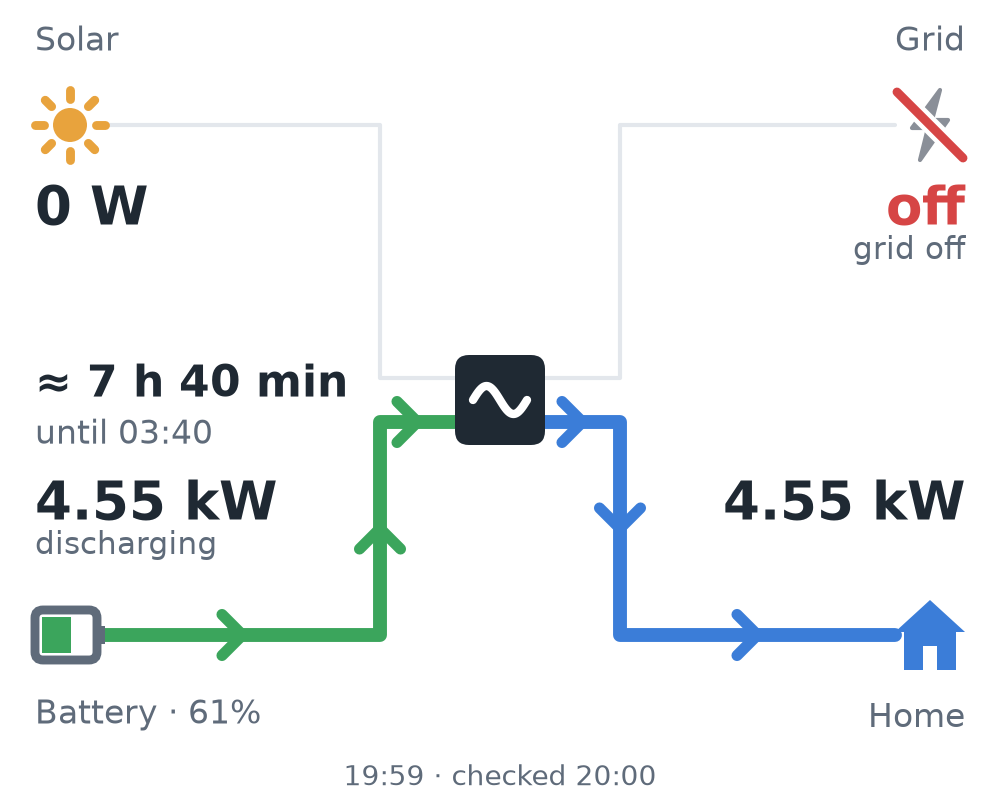
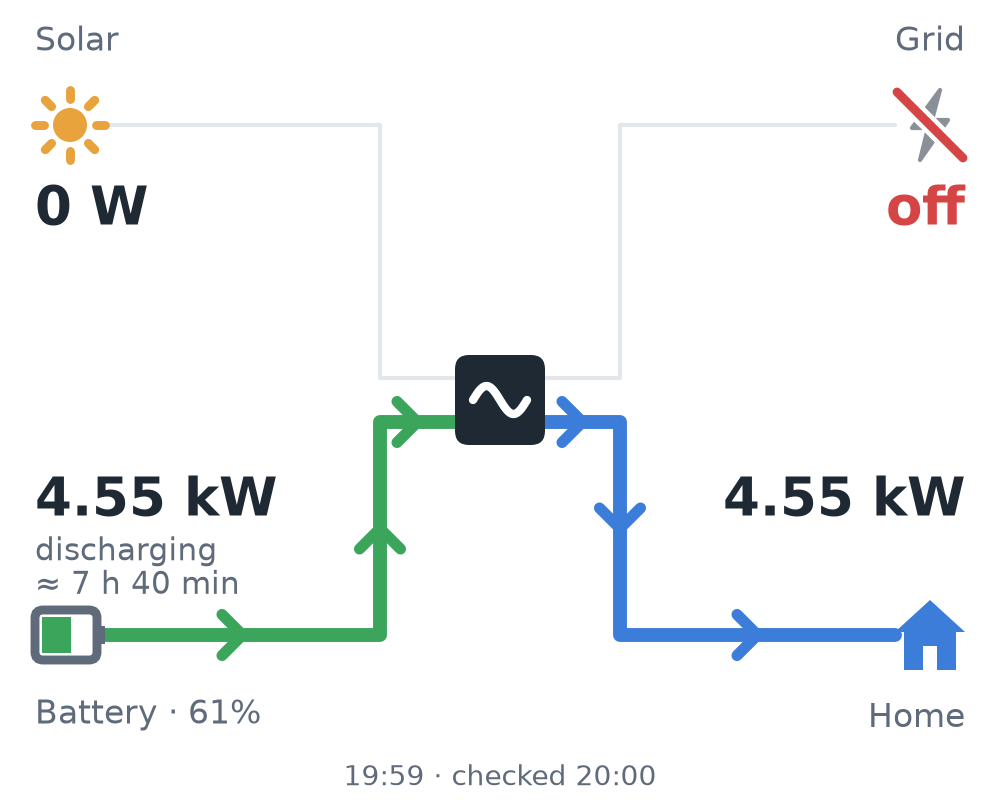
Flow image: compact outage battery text, single grid-off value
- battery: runtime estimate as a second small sub-line under the state
  ('розряджається' / '≈ 7 год 40 хв'), no end time in the image
- bottom-row texts 4 px higher; battery and home values stay aligned
- grid: only the red 'немає' value, no duplicate 'немає мережі' line;
  a measured grid-off (sunny outage) shows the same way
- remove the unused top-left ETA block and its i18n keys
- remove BACKLOG.md (remaining items were dropped or postponed)

diff --git a/src/vydpobot/flow.py b/src/vydpobot/flow.py
@@ -21,7 +21,7 @@ from matplotlib.figure import Figure  # noqa: E402
 from matplotlib.patches import Circle, FancyBboxPatch, Polygon, Rectangle  # noqa: E402
 
 from vydpobot.charts import C_BAT, C_GRID, C_LOAD, C_PV, C_THR, GRID_C, INK, INK_MUTED  # noqa: E402
-from vydpobot.i18n import Lang, fmt_ago, fmt_hm, fmt_power, fmt_until, t  # noqa: E402
+from vydpobot.i18n import Lang, fmt_ago, fmt_hm, fmt_power, t  # noqa: E402
 from vydpobot.models import Snapshot  # noqa: E402
 from vydpobot.runtime import Runtime  # noqa: E402
 
@@ -252,8 +252,8 @@ def _node_texts(
     sub = ""
     if node == "grid" and grid_off:
         value = t(lang, "flow.grid_value_off")
-    if node == "grid" and (grid_off or snap.grid_online is False):
-        sub = t(lang, "flow.grid_off")
+    if node == "grid" and grid_off:
+        sub = ""  # the red value already says it; a second "grid off" line only repeats it
     elif node == "grid" and watts is not None:
         key = "idle" if direction is None else "export" if watts < 0 else "import"
         sub = t(lang, f"flow.grid_{key}")
@@ -268,47 +268,13 @@ def _node_texts(
             else "discharging"
         )
         sub = t(lang, f"flow.state_{state}") if state else ""
-    return label, value, sub
-
-
-# Outage ETA block: left column, just above the battery value (the area between the solar
-# and battery corners is otherwise empty).
-ETA_MAIN_Y, ETA_UNTIL_Y = 4.15, 3.65
-ETA_SIZE, ETA_UNTIL_SIZE, ETA_MIN = 16.0, 12.0, 11.0
-
-
-def eta_lines(runtime: Runtime, lang: Lang, tz: ZoneInfo, now: datetime) -> tuple[str, str | None]:
-    """('≈ 7 год 40 хв', 'до 03:40'), or ('> 72 год', None) when capped."""
-    if runtime.capped:
-        return t(lang, "flow.eta_capped"), None
-    until = t(lang, "flow.eta_until", when=fmt_until(runtime.ends_at, tz, now))
-    return f"≈ {fmt_hm(lang, runtime.hours)}", until
-
-
-def _draw_eta(ax: Axes, renderer: RendererBase, main: str, until: str | None) -> None:
-    room = HUB[0] - ELBOW_DX - TEXT_GAP - EDGE  # left edge up to the battery's vertical run
-    rows = [(ETA_MAIN_Y, main, ETA_SIZE, INK, "bold")]
-    if until:
-        rows.append((ETA_UNTIL_Y, until, ETA_UNTIL_SIZE, INK_MUTED, "normal"))
-    for y, text, size, color, weight in rows:
-        t_ = ax.text(
-            EDGE,
-            y,
-            text,
-            ha="left",
-            va="center",
-            fontsize=size,
-            color=color,
-            fontweight=weight,
-            zorder=6,
-        )
-        while t_.get_fontsize() > ETA_MIN:
-            (x0, _), (x1, _) = ax.transData.inverted().transform(
-                t_.get_window_extent(renderer).get_points()
+        if runtime is not None and sub:
+            # outage: remaining time on its own line under the state, same small muted style
+            eta = (
+                t(lang, "flow.eta_capped") if runtime.capped else f"≈ {fmt_hm(lang, runtime.hours)}"
             )
-            if x1 - x0 <= room:
-                break
-            t_.set_fontsize(t_.get_fontsize() - 0.5)
+            sub = f"{sub}\n{eta}"
+    return label, value, sub
 
 
 def _draw_node(
@@ -382,8 +348,9 @@ def _draw_node(
         text(5.95, value, 19, C_THR if node == "grid" and grid_off else INK, "bold")
         text(5.5, sub, 11, INK_MUTED)
     else:
-        text(3.0, value, 19, INK, "bold")
-        text(2.55, sub, 11, INK_MUTED)
+        # bottom row: battery and home share these lines, so their values stay aligned
+        text(3.04, value, 19, INK, "bold")  # 1 unit = 100 px; +0.04 = 4 px up
+        text(2.59, sub, 11, INK_MUTED)
         text(0.85, label, 12, INK_MUTED)
 
 
@@ -419,6 +386,9 @@ def build_flow_figure(
     grid_off: bool = False,
 ) -> tuple[Figure, Axes]:
     now = now or datetime.now(tz)
+    # The inverter reports no grid voltage: show the grid as off even if the battery is not
+    # discharging (sunny outage), the same way as during a confirmed outage.
+    grid_off = grid_off or snapshot.grid_online is False
     watts: dict[Node, float | None] = {
         "pv": snapshot.pv_w,
         "grid": snapshot.grid_w,
@@ -437,8 +407,6 @@ def build_flow_figure(
         d = None if node == "grid" and grid_off else flow_direction(node, w)
         _draw_connection(ax, node, w, peak, d)
         _draw_node(ax, renderer, node, snapshot, lang, w, d, runtime, grid_off, tz, now)
-    if runtime is not None:
-        _draw_eta(ax, renderer, *eta_lines(runtime, lang, tz, now))
     _draw_hub(ax)
     text, stale = _footer(snapshot, lang, tz, now, stale_after_min, checked_at)
     ax.text(

diff --git a/tests/test_runtime.py b/tests/test_runtime.py
@@ -434,12 +434,12 @@ def test_flow_text_clear_with_runtime(lang, rt):
     s = snap(ts=NOW - timedelta(minutes=2))
     boxes = _text_boxes(s, lang, runtime=rt, grid_off=True)
     texts = [b[0] for b in boxes]
-    assert any(("grid off" if lang == "en" else "немає мережі") == x for x in texts)
+    assert not any(x in ("grid off", "немає мережі") for x in texts)  # value alone says it
+    joined = " ".join(texts)
     if rt is not None:
-        joined = " ".join(texts)
-        main, until = ("≈ 5 h 20 min", "until") if lang == "en" else ("≈ 5 год 20 хв", "до")
-        assert main in texts and until in joined
-        assert ("03:10" if rt is not RT else "23:40") in joined
+        eta = "≈ 5 h 20 min" if lang == "en" else "≈ 5 год 20 хв"
+        assert eta in joined
+        assert "until" not in joined and " до " not in f" {joined} "  # no end time in the image
     segs = [
         seg for node in CORNERS for seg in zip(node_path(node), node_path(node)[1:], strict=False)
     ]
@@ -452,33 +452,26 @@ def test_flow_text_clear_with_runtime(lang, rt):
 
 
 @pytest.mark.parametrize("lang", ["en", "uk"])
-def test_flow_eta_block_next_to_battery(lang):
-    from vydpobot.flow import ETA_MAIN_Y, ETA_UNTIL_Y
-
+def test_flow_eta_is_second_battery_subline(lang):
     s = snap(ts=NOW - timedelta(minutes=2))
     state = "discharging" if lang == "en" else "розряджається"
-    dur, until, over = (
-        ("5 h 20 min", "until", "> 72 h") if lang == "en" else ("5 год 20 хв", "до", "> 72 год")
-    )
+    dur, over = ("5 h 20 min", "> 72 h") if lang == "en" else ("5 год 20 хв", "> 72 год")
     far = replace(RT, ends_at=NOW + timedelta(hours=25))
     capd = Runtime(72.0, NOW + timedelta(hours=72), 0.1, "current", capped=True)
-    for rt, main, sub in [
-        (RT, f"≈ {dur}", f"{until} 23:40"),
-        (replace(RT, ends_at=END + timedelta(hours=3, minutes=30)), f"≈ {dur}", f"{until} 03:10"),
-        (far, f"≈ {dur}", f"{until} 11.10 20:00"),
-        (capd, over, None),
-    ]:
-        fig, ax = build_flow_figure(s, lang=lang, tz=TZ, now=NOW, runtime=rt, grid_off=True)
-        by_text = {x.get_text(): x for x in ax.texts}
-        assert state in by_text  # battery sub-line stays one plain line
-        m = by_text[main]
-        assert m.get_fontweight() == "bold" and m.get_fontsize() >= 11
-        x, y = m.get_position()
-        assert y == ETA_MAIN_Y and x < 1  # left column, above the battery value
-        if sub:
-            assert by_text[sub].get_position()[1] == ETA_UNTIL_Y
+    for rt, eta in [(RT, f"≈ {dur}"), (far, f"≈ {dur}"), (capd, over)]:
+        _, ax = build_flow_figure(s, lang=lang, tz=TZ, now=NOW, runtime=rt, grid_off=True)
+        sub = next(x for x in ax.texts if x.get_text() == f"{state}\n{eta}")
+        assert sub.get_fontweight() == "normal" and sub.get_fontsize() <= 11  # small, muted
     _, ax = build_flow_figure(s, lang=lang, tz=TZ, now=NOW, grid_off=True)
-    assert not any(x.get_text().startswith("≈ ") for x in ax.texts)
+    assert any(x.get_text() == state for x in ax.texts)  # no runtime: state alone
+    assert not any("≈ " in x.get_text() for x in ax.texts)
+
+
+def test_flow_bottom_values_aligned():
+    s = snap(ts=NOW - timedelta(minutes=2))
+    _, ax = build_flow_figure(s, lang="en", tz=TZ, now=NOW, runtime=RT, grid_off=True)
+    bold_bottom = [x for x in ax.texts if x.get_fontweight() == "bold" and x.get_position()[1] < 4]
+    assert len(bold_bottom) == 2 and len({x.get_position()[1] for x in bold_bottom}) == 1
 
 
 @pytest.mark.parametrize("lang", ["en", "uk"])
@@ -497,8 +490,11 @@ def test_flow_grid_off_value_and_cross(lang):
         else:
             assert not values and not reds
     _, ax = build_flow_figure(s, lang=lang, tz=TZ, now=NOW, runtime=RT, grid_off=True)
-    sub = "grid off" if lang == "en" else "немає мережі"
-    assert any(x.get_text() == sub for x in ax.texts)
+    assert not any(x.get_text() in ("grid off", "немає мережі") for x in ax.texts)
+    # sunny outage: no discharge, but the inverter sees no grid voltage -> same red value
+    sunny = replace(s, grid_online=False)
+    _, ax = build_flow_figure(sunny, lang=lang, tz=TZ, now=NOW)
+    assert [x.get_color() for x in ax.texts if x.get_text() == word] == [C_THR]
 
 
 def test_flow_grid_off_connection_stays_grey():

diff --git a/src/vydpobot/i18n.py b/src/vydpobot/i18n.py
@@ -142,8 +142,6 @@ MESSAGES: dict[Lang, dict[str, str]] = {
         "runtime.dur.h": "{h} h",
         "runtime.dur.m": "{m} min",
         "runtime.tomorrow": "tomorrow",
-        "flow.grid_off": "grid off",
-        "flow.eta_until": "until {when}",
         "flow.eta_capped": "> 72 h",
         "flow.grid_value_off": "off",
         "live.grid_off_short": "off",
@@ -309,8 +307,6 @@ MESSAGES: dict[Lang, dict[str, str]] = {
         "runtime.dur.h": "{h} год",
         "runtime.dur.m": "{m} хв",
         "runtime.tomorrow": "завтра",
-        "flow.grid_off": "немає мережі",
-        "flow.eta_until": "до {when}",
         "flow.eta_capped": "> 72 год",
         "flow.grid_value_off": "немає",
         "live.grid_off_short": "немає",
